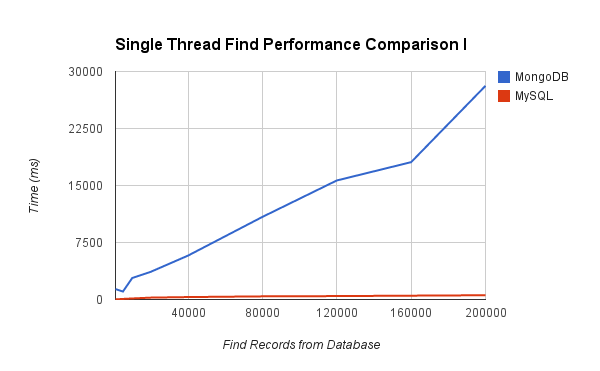
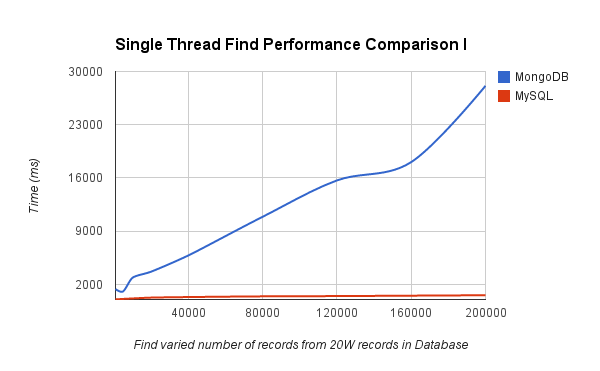
add analysis into README

diff --git a/src/test/java/com/webapp/dao/impl/mdb/UserMDBPerformanceTest.java b/src/test/java/com/webapp/dao/impl/mdb/UserMDBPerformanceTest.java
@@ -54,12 +54,12 @@ public class UserMDBPerformanceTest extends SpringTransactionContextTest{
 	/*
 	 *  Find 5000 from different data size in the database
 	 */
-//	@Test
+	@Test
 	public void findbyIdPerformance1(){
 		userDao.deleteAll();
 		int findItems=5000;   // data size in the database
 		int[] testData ={5000, 10000, 20000, 40000, 80000, 100000, 150000, 180000, 200000}; // find times
-		int times = 200000;  // exchange findItems with testData
+		int times = 10000;  // exchange findItems with testData
 		
 		addTestUsers(times);
 		Random randomGenerator = new Random();
@@ -86,7 +86,7 @@ public class UserMDBPerformanceTest extends SpringTransactionContextTest{
 		userDao.deleteAll();
 		int times=200000;   // data size in the database
 		int[] testData ={1000,5000,10000,20000,40000,80000,120000,160000,200000}; // find times
-		int findItems = 1000; // exchange findItems with testData
+		int findItems = 200000; // exchange findItems with testData
 		addTestUsers(times);
 		
 		Random randomGenerator = new Random();
@@ -131,7 +131,7 @@ public class UserMDBPerformanceTest extends SpringTransactionContextTest{
 	/*
 	 *  Delete different size from 200000 in mongodb
 	 */
-	@Test
+//	@Test
 	public void deletebyIdPerformance2() {
 		userDao.deleteAll();
 		int times = 80000;  

diff --git a/README.md b/README.md
@@ -21,7 +21,13 @@ Comparison between Oracle and MongoDB
 
 ##Testing Result
 
+
+In order to compare single thread performance of SQL and NoSQL databases, we choose MySQL(SQL) and MongoDB(NoSQL) to test add, find and delete performance by comparing their time cost. We have used different numbers of records and strategies to compare the performance between SQL and NoSQL.
+
 ####Single Thread Add Performance Comparison
+
+To test the add performance of MySQL and MongoDB, we had used a method of adding different size of records into database and compared their time cost. The number of records  changes from 1000 to 200000, and we divided them into 9 groups and test their executing time by adding the same number of records into two databases at each time. 
+
 ######Data
 <table>
 <thead>
@@ -66,61 +72,21 @@ Comparison between Oracle and MongoDB
 </tbody>
 </table>
 
+We have tested 9 groups of records,  and the number of records is from 1000 to 200000 (See Table). The data in the first row stands for different size of records, and the data in the second and third rows are time cost of adding different number of records into MongoDB and MySQL.
+
 ######Figure
 
 <img src="img/single_add.png"/>
 
 ######Analysis
 
+According to above diagram, we can see MongoDB's line is under MySQL's line. It means MongoDB is faster than MySQL when adding the same size of records into databases. Based on above test results, we conclude that MongoDB's adding performance is better than MySQL's adding performance.
+
+
 ####Single Thread Find Performance Comparison I
-######Data
-<table>
-<thead>
-<tr class="header">
-<th align="left">#Records</th>
-<td align="left">5000</td>
-<td align="left">10000</td>
-<td align="left">20000</td>
-<td align="left">40000</td>
-<td align="left">80000</td>
-<td align="left">120000</td>
-<td align="left">160000</td>
-<td align="left">200000</td>
-</tr>
-</thead>    
-<tbody>
-<tr class="odd">
-<td align="left">MongoDB</td>
-<td align="left">1979</td>
-<td align="left">2910</td>
-<td align="left">1774</td>
-<td align="left">1921</td>
-<td align="left">2166</td>
-<td align="left">1944</td>
-<td align="left">2725</td>
-<td align="left">1889</td>
-</tr>
-<tr class="even">
-<td align="left">MySQL</td>
-<td align="left">138</td>
-<td align="left">110</td>
-<td align="left">72</td>
-<td align="left">69</td>
-<td align="left">76</td>
-<td align="left">74</td>
-<td align="left">74</td>
-<td align="left">75</td>
-</tr>
-</tbody>
-</table>
 
-######Figure
+We have adopted two methods to test the find performance of MySQL and MongoDB. One method is to test the time cost of finding different number of records from databases, in this case, the the number of records in the databases are fixed (200000). The other method is to test the time cost of finding fixed records (5000) from databases, the number of records in databases increases from 5000 to 200000. 
 
-<img src="img/single_find_1.png"/>
-
-######Analysis
-
-####Single Thread Find Performance Comparison II
 ######Data
 <table>
 <thead>
@@ -165,61 +131,73 @@ Comparison between Oracle and MongoDB
 </tbody>
 </table>
 
+We have tested 9 groups of data,  and the numbers of records change from 1000 to 200000 (See Table). The data in the first row stands for different records' size, and each column between the second and third rows stands for time cost of finding the same number of records from MongoDB and MySQL.
+
+######Figure
+
+<img src="img/single_find_1.png"/>
+
+######Analysis
+
+According to above diagram, the line of MongoDB is over the line of MySQL. It means that MySQL is faster than MongoDB when finding the same number of records in the databases which also have same number of records.  We also see that the line of MySQL grows very slow when finding the increasing number of records from fixed number of records in the database, which implies that MySQL has little variance to find the different number of records from same size of records in the database. 
+
+####Single Thread Find Performance Comparison II
+
+######Data
+<table>
+<thead>
+<tr class="header">
+<th align="left">#Records</th>
+<td align="left">5000</td>
+<td align="left">10000</td>
+<td align="left">20000</td>
+<td align="left">40000</td>
+<td align="left">80000</td>
+<td align="left">120000</td>
+<td align="left">160000</td>
+<td align="left">200000</td>
+</tr>
+</thead>    
+<tbody>
+<tr class="odd">
+<td align="left">MongoDB</td>
+<td align="left">1979</td>
+<td align="left">2310</td>
+<td align="left">1774</td>
+<td align="left">1921</td>
+<td align="left">2166</td>
+<td align="left">1944</td>
+<td align="left">2525</td>
+<td align="left">1889</td>
+</tr>
+<tr class="even">
+<td align="left">MySQL</td>
+<td align="left">138</td>
+<td align="left">110</td>
+<td align="left">72</td>
+<td align="left">69</td>
+<td align="left">76</td>
+<td align="left">74</td>
+<td align="left">74</td>
+<td align="left">75</td>
+</tr>
+</tbody>
+</table>
+
+We have tested 8 groups of data. The data in the first row stands for different records' size, and each column between the second and third rows stands for time cost of finding 5000 records from databases which have different numbers of records from 5000 to 200000 (See Table).
+
 ######Figure
 
 <img src="img/single_find_2.png"/>
 
 ######Analysis
 
+According to above diagram, the line of MongoDB is over the line of MySQL. It means that MySQL is faster than MongoDB when finding 5000 records from databases as the number of records increase in the databases .  We also see that the line of MySQL is smooth and level when they find a fixed number of records from increasing number of records in the database, which implies that MySQL has little variance to find the fixed number of records from database. 
+
 ####Single Thread Delete Performance Comparison I
-######Data
-<table>
-<thead>
-<tr class="header">
-<th align="left">#Records</th>
-<th align="left">5000</th>
-<th align="left">10000</th>
-<th align="left">20000</th>
-<th align="left">40000</th>
-<th align="left">80000</th>
-<th align="left">140000</th>
-<th align="left">160000</th>
-<th align="left">200000</th>
-</tr>     
-</thead>
-<tbody>
-<tr class="odd">
-<td align="left">MongoDB</td>
-<td align="left">1035</td>
-<td align="left">673</td>
-<td align="left">624</td>
-<td align="left">641</td>
-<td align="left">568</td>
-<td align="left">638</td>
-<td align="left">621</td>
-<td align="left">587</td>     
-</tr>
-<tr class="even">
-<td align="left">MySQL</td>
-<td align="left">1073</td>
-<td align="left">1144</td>
-<td align="left">1391</td>
-<td align="left">1570</td>
-<td align="left">1493</td>
-<td align="left">1800</td>
-<td align="left">1652</td>
-<td align="left">1947</td>    
-</tr>
-</tbody>
-</table
 
-######Figure
+In order to test the delete performance of MySQL and MongoDB, we adopt two strategies to test their time cost. One way is to randomly delete fixed number of records from varied data size in databases, the other way is to randomly delete varied number of records from fixed records from databases. 
 
-<img src="img/single_del_1.png"/>
-
-######Analysis
-          
-####Single Thread Delete Performance Comparison II
 ######Data
 <table>
 <thead>
@@ -264,11 +242,68 @@ Comparison between Oracle and MongoDB
 </tbody>
 </table>
 
+We have tested 9 groups of data. The data in the first row stands for different records' size of finding from databases, and each column between the second and third rows stands for time cost when finding the same number of records from MongoDB and MySQL.
+
+######Figure
+
+<img src="img/single_del_1.png"/>
+
+######Analysis
+
+According to the above diagram, the line of MongoDB is under the line of MySQL. It means that MongoDB is faster than MySQL when they delete different number of records from databases which have fixed number of records(200000). 
+          
+####Single Thread Delete Performance Comparison II
+
+######Data
+<table>
+<thead>
+<tr class="header">
+<th align="left">#Records</th>
+<th align="left">5000</th>
+<th align="left">10000</th>
+<th align="left">20000</th>
+<th align="left">40000</th>
+<th align="left">80000</th>
+<th align="left">140000</th>
+<th align="left">160000</th>
+<th align="left">200000</th>
+</tr>     
+</thead>
+<tbody>
+<tr class="odd">
+<td align="left">MongoDB</td>
+<td align="left">1035</td>
+<td align="left">673</td>
+<td align="left">624</td>
+<td align="left">641</td>
+<td align="left">568</td>
+<td align="left">638</td>
+<td align="left">621</td>
+<td align="left">587</td>     
+</tr>
+<tr class="even">
+<td align="left">MySQL</td>
+<td align="left">1073</td>
+<td align="left">1144</td>
+<td align="left">1391</td>
+<td align="left">1570</td>
+<td align="left">1493</td>
+<td align="left">1800</td>
+<td align="left">1652</td>
+<td align="left">1947</td>    
+</tr>
+</tbody>
+</table
+
+We have tested 8 groups of data. The data in the first row stands for different records size from 5000 to 20000 in the databases, and each column between the second and third rows stands for time cost of finding 5000 records from databases based on different size of records in database. (See Table).
+
 ######Figure
 
 <img src="img/single_del_2.png"/>
 
 ######Analysis
+
+According to above diagram, the blue line of MongoDB is under the the red line of MySQL. It means MongoDB has a better performance than MySQL, when they delete the same number of records (5000) from databases with varied number of records.
 
 
 ###Multi-Thread Test
